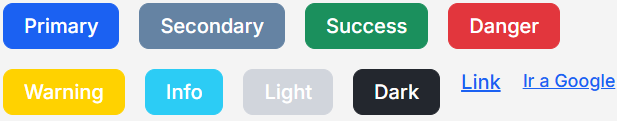
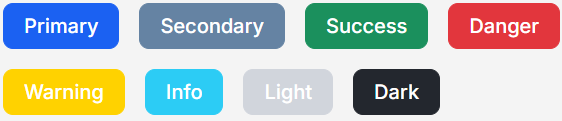
docs: :memo: mejorar documentacion de botones

diff --git a/src/app/auth/login/login.component.html b/src/app/auth/login/login.component.html
@@ -1,31 +1,4 @@
-
-<section class="m-2">
-<!-- bordes redondeados -->
-<button class="btn btn-warning btn-background btn-base">
-  <span class="material-symbols-outlined">warning</span>
-</button>
-
-<!-- btn-rounded-full forma de circulo -->
-<button class="btn btn-outline btn-danger btn-icon-only btn-rounded-full">
-  <span class="material-symbols-outlined">delete</span>
-</button>
-
-<button class="btn btn-ghost btn-dark btn-icon-only btn-rounded-full">
-  <span class="material-symbols-outlined">settings</span>
-</button>
-
-<!-- xs boton muy pequeño -->
-<button class="btn btn-info btn-background btn-icon-only btn-rounded-full btn-xs">
-  <span class="material-symbols-outlined">info</span>
-</button>
-
-<!-- 2xl boton muy grande -->
-<button class="btn btn-primary btn-background btn-icon-only btn-rounded-full btn-2xl">
-  <span class="material-symbols-outlined">arrow_forward</span>
-</button>
-</section>
-
-<!-- <section
+<section
   class="mx-auto max-w-[364px] sm:max-w-sm px-8 sm:p-0 min-h-dvh flex items-center justify-center"
 >
   <div class="w-full">
@@ -102,14 +75,14 @@
 
         <a
           routerLink="/recuperar-clave"
-          class="text-[12px] xsm:text-sm text-right text-blue-lightning"
+          class="btn btn-link"
         >
           ¿Olvidaste tu contraseña?
         </a>
       </div>
 
       <div class="flex justify-center mb-5">
-        <button type="submit" class="btn-primary">Ingresar</button>
+        <button type="submit" class="btn btn-primary btn-background">Ingresar</button>
       </div>
 
       <div class="flex gap-x-2">
@@ -117,11 +90,10 @@
         <a
           routerLink="/registrarme"
           rel="noopener noreferrer"
-          class="text-[12px] xsm:text-sm text-blue-lightning cursor-pointer"
+          class="btn btn-link"
           >Registrate!</a
         >
       </div>
     </form>
   </div>
 </section>
- -->

diff --git a/src/styles/global/buttons/_variants.scss b/src/styles/global/buttons/_variants.scss
@@ -100,29 +100,10 @@
 }
 
 /*
-*************
-* .btn-link *
-*************
-
-Estilos para enlaces. Ejemplo:
-
-<button class="btn btn-link"
-        routerLink="/home">
-  Ir a home
-</button>
-
-<button class="btn btn-link"
-        routerLink="/home"
-        disabled>
-  Ir a home
-</button>
-
-<a class="btn btn-link"
-   target="_blank"
-   rel="noopener noreferrer"
-   href="https://www.google.com">
-  Ir a Google
-</a> */
+************************
+* .btn-link            *
+* Estilos para enlaces *
+************************ */
 .btn-link {
   background-color: transparent;
   border-color: transparent;

diff --git a/src/app/not-found-404/not-found-404.component.ts b/src/app/not-found-404/not-found-404.component.ts
@@ -1,9 +1,10 @@
 import { Component, inject, signal, OnInit } from '@angular/core';
-import { Router } from '@angular/router';
+import { Router, RouterLink } from '@angular/router';
 
 @Component({
   selector: 'app-404-not-found',
   templateUrl: './not-found-404.component.html',
+  imports: [RouterLink],
 })
 export class NotFound404Component implements OnInit {
   router = inject(Router);
@@ -13,7 +14,4 @@ export class NotFound404Component implements OnInit {
   ngOnInit() {
     this.currentRoute.set(this.router.url);
   }
-
-  onClickLogout = (): Promise<boolean> =>
-    this.router.navigate(['/iniciar-sesion']);
 }

diff --git a/src/app/auth/assign-password/assign-password.component.html b/src/app/auth/assign-password/assign-password.component.html
@@ -67,12 +67,12 @@
       </div>
 
       <div class="flex justify-center mb-5">
-        <button type="submit" class="btn-primary">Recuperar Contraseña</button>
+        <button type="submit" class="btn btn-primary btn-background">Recuperar Contraseña</button>
       </div>
 
       <a
         routerLink="/iniciar-sesion"
-        class="text-[12px] xsm:text-sm text-right text-blue-lightning"
+        class="btn btn-link"
       >
         Volver a inicio de sesión
       </a>

diff --git a/src/app/auth/recover-password/recover-password.component.html b/src/app/auth/recover-password/recover-password.component.html
@@ -41,12 +41,12 @@
       </div>
 
       <div class="flex justify-center mb-5">
-        <button type="submit" class="btn-primary">Recuperar Contraseña</button>
+        <button type="submit" class="btn btn-primary btn-background">Recuperar Contraseña</button>
       </div>
 
       <a
         routerLink="/iniciar-sesion"
-        class="text-[12px] xsm:text-sm text-right text-blue-lightning"
+        class="btn btn-link"
       >
         Volver a inicio de sesión
       </a>

diff --git a/src/app/auth/register/register.component.html b/src/app/auth/register/register.component.html
@@ -118,12 +118,12 @@
       </div>
 
       <div class="flex justify-center mb-5">
-        <button type="submit" class="btn-primary">Registrarme</button>
+        <button type="submit" class="btn btn-primary btn-background">Registrarme</button>
       </div>
 
       <a
         routerLink="/iniciar-sesion"
-        class="text-[12px] xsm:text-sm text-right text-blue-lightning"
+        class="btn btn-link"
       >
         Volver a inicio de sesión
       </a>

diff --git a/src/app/not-found-404/not-found-404.component.html b/src/app/not-found-404/not-found-404.component.html
@@ -18,7 +18,9 @@
         Pero no te preocupes, puedes encontrar muchas otras cosas en nuestra
         página de inicio.
       </p>
-      <button (click)="onClickLogout()" class="btn-primary">Ir a Inicio</button>
+      <button routerLink="/iniciar-sesion" class="btn btn-link">
+        Ir a Inicio
+      </button>
     </div>
   </div>
 </section>

diff --git a/README.md b/README.md
@@ -695,12 +695,12 @@ export class MyComponent {}
 <!-- my-component.component.html -->
 
 <button class="btn btn-primary btn-background">
-  <span>Guardar</span>
+  <span>Primary</span>
 </button>
 
-<button class="btn btn-primary btn-background">
+<button class="btn btn-secondary btn-background">
   <span class="material-symbols-outlined">arrow_forward</span>
-  <span>Primary</span>
+  <span>Secondary</span>
 </button>
 ```
 
@@ -776,7 +776,7 @@ Los iconos de los botones deben utilizar [Material Symbols Icons](https://fonts.
 [Material Symbols Icons](https://fonts.google.com/icons) funcionan como texto estilizable mediante CSS, lo que permite integrarlos correctamente con la arquitectura visual del proyecto.
 
 ```html
-<button class="btn btn-primary">
+<button class="btn btn-primary btn-outline btn-icon-only btn-rounded-full btn-shadow">
   <span class="material-symbols-outlined">arrow_forward</span>
 </button>
 ```
@@ -903,6 +903,30 @@ Por defecto, `.btn` tiene `background-color: transparent`, por lo que **no repre
 </button>
 ```
 
+### Enlaces
+
+`btn btn-link` define los estilos para los enlaces para `<a>` y `<button>`
+
+![enlaces](./docs/readme-md/img/button/enlaces.png)
+
+```html
+<a class="btn btn-link" routerLink="/home">
+  Ir a home
+</a>
+
+<button class="btn btn-link" routerLink="/home">
+  Ir a home
+</button>
+
+<button class="btn btn-link" routerLink="/home" disabled>
+  Ir a home
+</button>
+
+<a class="btn btn-link" target="_blank" rel="noopener noreferrer" href="https://www.google.com">
+  Ir a Google
+</a>
+```
+
 ### Botones con Color de Fondo
 
 `btn-background` agrega color de fondo al boton.
@@ -932,10 +956,6 @@ En sistemas de diseño modernos, los botones se clasifican según su nivel de im
 <button class="btn btn-info btn-background">Info</button>
 <button class="btn btn-light btn-background">Light</button>
 <button class="btn btn-dark btn-background">Dark</button>
-
-<!-- Enlaces -->
-<a class="btn btn-link" routerLink="/home">Link</a>
-<a class="btn btn-link" target="_blank" rel="noopener noreferrer" href="https://www.google.com">Ir a Google</a>
 ```
 
 ### Botones con Borde + Texto
@@ -967,43 +987,49 @@ Algunos botones usan colores claros en el texto o borde, por lo que deben coloca
 
 `btn-shadow` agrega una sombra a cualquier variante de botón, sin importar su estilo (fondo, borde o ghost).
 
-![sombra-fondo](./docs/readme-md/img/button/sombra-fondo.png)
+![botones-con-sombra](./docs/readme-md/img/button/botones-con-sombra.png)
 
 ```html
+<!-- sombra + fondo + texto -->
 <button class="btn btn-primary btn-background btn-shadow">Primary</button>
-<button class="btn btn-secondary btn-background btn-shadow">Secondary</button>
-<button class="btn btn-success btn-background btn-shadow">Success</button>
-<button class="btn btn-danger btn-background btn-shadow">Danger</button>
-<button class="btn btn-warning btn-background btn-shadow">Warning</button>
-<button class="btn btn-info btn-background btn-shadow">Info</button>
-<button class="btn btn-light btn-background btn-shadow">Light</button>
-<button class="btn btn-dark btn-background btn-shadow">Dark</button>
-```
 
-![sombra-no-fondo](./docs/readme-md/img/button/sombra-no-fondo.png)
-
-```html
-<button class="btn btn-primary btn-ghost btn-shadow">Primary</button>
+<!-- sombra + texto -->
 <button class="btn btn-secondary btn-ghost btn-shadow">Secondary</button>
-<button class="btn btn-success btn-ghost btn-shadow">Success</button>
-<button class="btn btn-danger btn-ghost btn-shadow">Danger</button>
-<button class="btn btn-warning btn-ghost btn-shadow">Warning</button>
-<button class="btn btn-info btn-ghost btn-shadow">Info</button>
-<button class="btn btn-light btn-ghost btn-shadow">Light</button>
-<button class="btn btn-dark btn-ghost btn-shadow">Dark</button>
-```
 
-![sombra-outline](./docs/readme-md/img/button/sombra-outline.png)
-
-```html
-<button class="btn btn-primary btn-outline btn-shadow">Primary</button>
-<button class="btn btn-secondary btn-outline btn-shadow">Secondary</button>
+<!-- sombra + borde + texto -->
 <button class="btn btn-success btn-outline btn-shadow">Success</button>
-<button class="btn btn-danger btn-outline btn-shadow">Danger</button>
-<button class="btn btn-warning btn-outline btn-shadow">Warning</button>
-<button class="btn btn-info btn-outline btn-shadow">Info</button>
-<button class="btn btn-light btn-outline btn-shadow">Light</button>
-<button class="btn btn-dark btn-outline btn-shadow">Dark</button>
+
+<!-- sombra + bordes redondeados + icono + fondo -->
+<button class="btn btn-warning btn-background btn-base btn-shadow">
+  <span class="material-symbols-outlined">warning</span>
+</button>
+
+<!-- sombra + bordes redondeados + icono + borde -->
+<button class="btn btn-success btn-outline btn-icon-only btn-shadow">
+  <span class="material-symbols-outlined">check_circle</span>
+</button>
+
+<!-- sombra + borde + btn-rounded-full forma de circulo + icono -->
+<button class="btn btn-outline btn-danger btn-icon-only btn-rounded-full btn-shadow">
+  <span class="material-symbols-outlined">delete</span>
+</button>
+
+<!-- sombra + btn-rounded-full forma de circulo + icono -->
+<button class="btn btn-ghost btn-info btn-icon-only btn-rounded-full btn-shadow">
+  <span class="material-symbols-outlined">info</span>
+</button>
+
+<!-- sombra + icono + fondo + texto -->
+<button class="btn btn-primary btn-background btn-shadow">
+  <span class="material-symbols-outlined">arrow_forward</span>
+  <span>Primary</span>
+</button>
+
+<!-- sombra + icono + fondo + texto + boton redondo -->
+<button class="btn btn-info btn-background btn-rounded-full btn-shadow">
+  <span class="material-symbols-outlined">info</span>
+  <span>Info</span>
+</button>
 ```
 
 ### Botones con Icono
@@ -1205,7 +1231,13 @@ Es obligatorio que, cuando el botón contenga únicamente un icono (sin texto), 
 - **Hover:** Cambia color de fondo al situar mouse en boton.
 - **Uso:** acciones secundarias o discretas.
 
+***NO hover***
+
 ![botones-sin-fondo-ni-borde](./docs/readme-md/img/button/botones-sin-fondo-ni-borde.png)
+
+***hover***
+
+![botones-sin-fondo-ni-borde-hover](./docs/readme-md/img/button/botones-sin-fondo-ni-borde-hover.png)
 
 ```HTML
 <button class="btn btn-primary btn-ghost">Primary</button>